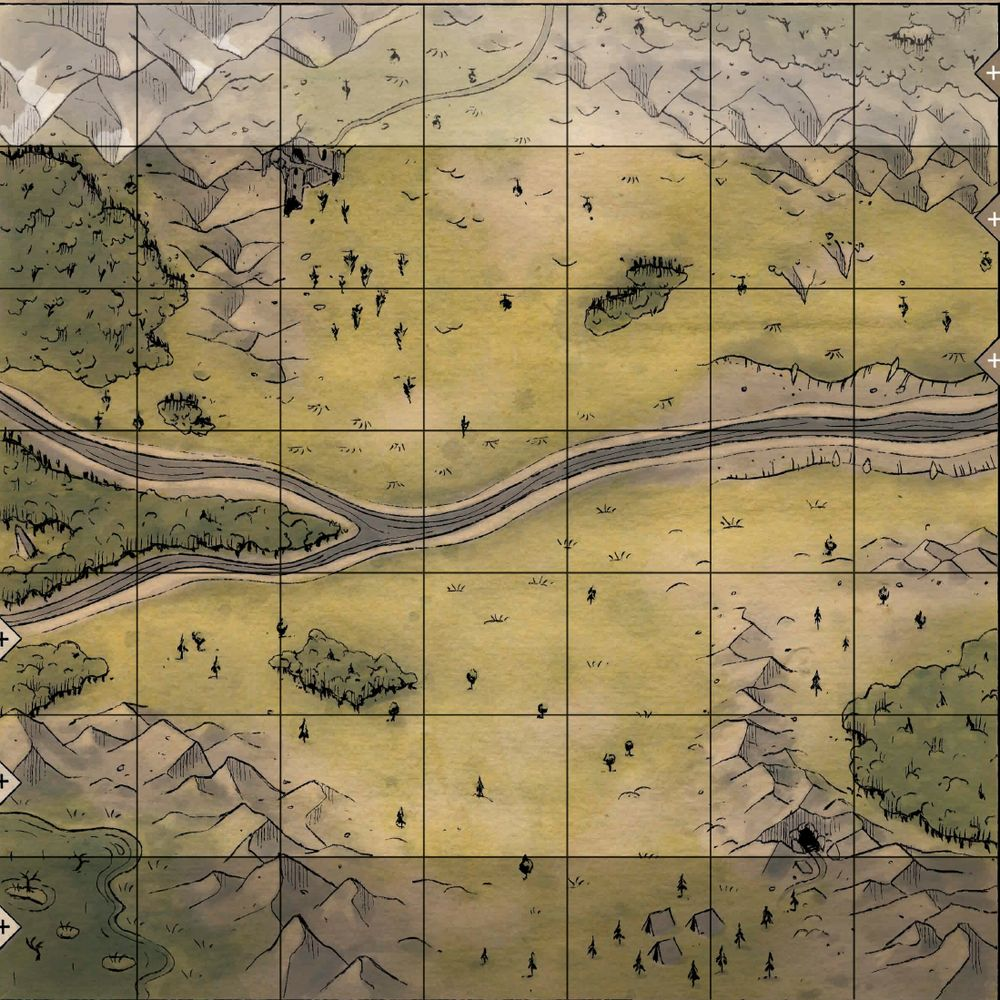
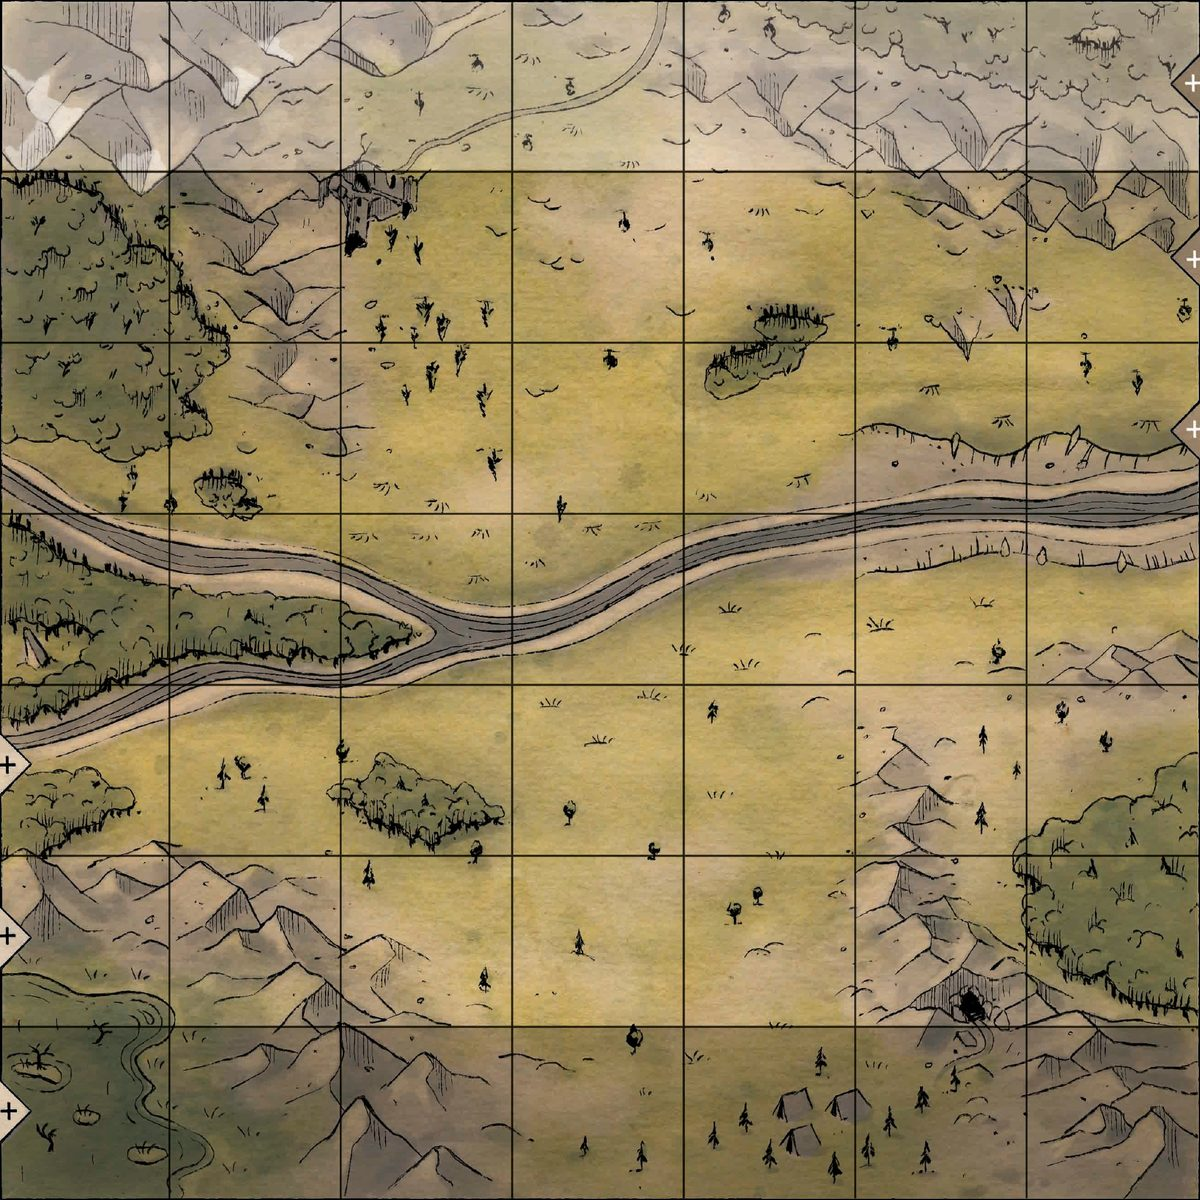
Ring: Move/Attack in the middle, Turn and a 3rd spell at the bottom; cleaner board crop
- Radial menu: the most used action (Move / Attack) sits in the middle, the
  bottom quarter holds KoS Turn or a third spell, the ring is capped in size
  on large screens.
- Board artwork cropped exactly along the outer grid lines; the +1/+2/+3 field
  bonus tags are drawn on the edge fields instead of being cut off.
- Large screens: the side column grows with the screen.

Claude-Session: https://claude.ai/code/session_01Fk5f7u6oEZYFAH5GYLATx9

diff --git a/ui/ring.js b/ui/ring.js
@@ -3,9 +3,9 @@
 //   Ring.show({
 //     square: { row, col },            // board field the ring belongs to
 //     items: { top: [], right: [], bottom: [], left: [] },
-//     dieImg: "img/RoX/3.png",          // shown in the middle (optional)
+//     dieImg: "img/RoX/3.png",          // shown in the middle when there is no center action
 //     dieRotation: 0,                   // degrees, for the image in the middle
-//     center: { label, onClick } | null, // tap on the middle (e.g. KoS "Turn")
+//     center: { label, onClick } | null, // action in the middle (Move / Attack)
 //     flip: false,                      // turn the ring by 180 degrees (player 2 in a duel)
 //     spellColor: "#00878c",
 //     onCancel: () => {},               // tap outside the ring
@@ -127,8 +127,9 @@
     layer.classList.add("open");
     Object.assign(backdrop.style, { left: `${br.left - ar.left}px`, top: `${br.top - ar.top}px`, width: `${br.width}px`, height: `${br.height}px` });
 
-    const R = Math.min(cell * 2.05, ar.width / 2 - 4, ar.height / 2 - 4);
-    const r = Math.max(R * 0.34, 24);
+    // Big enough for a thumb on a phone, but not huge on a large screen.
+    const R = Math.min(cell * 2.05, 170, ar.width / 2 - 4, ar.height / 2 - 4);
+    const r = Math.max(R * 0.37, 30);
     const pad = 4;
     let cx = cr.left - ar.left + cell / 2;
     let cy = cr.top - ar.top + cell / 2;
@@ -172,37 +173,29 @@
       });
     }
 
-    // Middle: the die itself (a tap there may turn it, KoS).
+    // Middle: the main action (Move / Attack), otherwise the die itself.
     const mid = el("g", { class: "seg" }, root);
+    if (o.center) {
+      el("circle", { cx: c, cy: c, r: r - 3, fill: COLORS.move, stroke: "#1e1a16", "stroke-width": 2 }, mid);
+      drawLabel(mid, c, c, { label: o.center.label, kind: "move" }, (r - 3) * 1.6, fontSize);
+      mid.setAttribute("tabindex", "0");
+      mid.setAttribute("role", "button");
+      mid.setAttribute("aria-label", o.center.label);
+      const fire = (e) => { e.stopPropagation(); o.center.onClick(); };
+      mid.addEventListener("click", fire);
+      mid.addEventListener("keydown", (e) => { if (e.key === "Enter" || e.key === " ") fire(e); });
+      return;
+    }
+    mid.style.pointerEvents = "none";
     el("circle", { cx: c, cy: c, r: r - 3, fill: "#e8dfca", stroke: "#1e1a16", "stroke-width": 2 }, mid);
     if (o.dieImg) {
       const s = (r - 3) * 1.25;
       const img = el("image", { href: o.dieImg, x: c - s / 2, y: c - s / 2, width: s, height: s, preserveAspectRatio: "xMidYMid meet" }, mid);
       const rot = (o.dieRotation || 0) + (o.flip ? 180 : 0);
       if (rot) img.setAttribute("transform", `rotate(${rot} ${c} ${c})`);
-      img.style.pointerEvents = "none";
     } else if (o.dieText) {
       const t = el("text", { x: c, y: c + r * 0.3, "text-anchor": "middle", "font-family": "Cinzel, Georgia, serif", "font-weight": 700, "font-size": r * 0.9, fill: "#2c241c" }, mid);
       t.textContent = o.dieText;
-    }
-    if (o.center) {
-      // circular arrow badge: "tap the die to turn it"
-      const br2 = r * 0.42;
-      const bx = c + (r - 3) * 0.62, by = c - (r - 3) * 0.62;
-      el("circle", { cx: bx, cy: by, r: br2, fill: "#56656f", stroke: "#1e1a16", "stroke-width": 1.5 }, mid);
-      el("path", {
-        d: `M${bx - br2 * 0.5} ${by + br2 * 0.15} A${br2 * 0.55} ${br2 * 0.55} 0 1 1 ${bx + br2 * 0.1} ${by + br2 * 0.55}`,
-        fill: "none", stroke: "#f4eedf", "stroke-width": 2, "stroke-linecap": "round",
-      }, mid);
-      el("path", { d: `M${bx - br2 * 0.75} ${by - br2 * 0.1} L${bx - br2 * 0.5} ${by + br2 * 0.35} L${bx - br2 * 0.1} ${by + br2 * 0.05}`, fill: "none", stroke: "#f4eedf", "stroke-width": 2, "stroke-linecap": "round", "stroke-linejoin": "round" }, mid);
-      mid.setAttribute("tabindex", "0");
-      mid.setAttribute("role", "button");
-      mid.setAttribute("aria-label", o.center.label || "Turn");
-      const fire = (e) => { e.stopPropagation(); o.center.onClick(); };
-      mid.addEventListener("click", fire);
-      mid.addEventListener("keydown", (e) => { if (e.key === "Enter" || e.key === " ") fire(e); });
-    } else {
-      mid.style.pointerEvents = "none";
     }
   }
 

diff --git a/index.html b/index.html
@@ -244,6 +244,26 @@
 
     .cell-label { display: none; }
 
+    .bonus-tag {
+      position: absolute; top: 50%; z-index: 1; pointer-events: none;
+      transform: translateY(-50%);
+      height: 34%; min-height: 17px; aspect-ratio: 1.1;
+      background: #2b2420;
+    }
+    .bonus-tag::after {
+      content: attr(data-v);
+      position: absolute; inset: 1.5px;
+      display: flex; align-items: center; justify-content: center;
+      background: #e8dcc0; color: #3b3127;
+      font-family: var(--display); font-weight: 700; font-size: clamp(10px, 3.4cqmin, 22px);
+      clip-path: inherit;
+    }
+    .bonus-tag.right { right: 0; clip-path: polygon(36% 0, 100% 0, 100% 100%, 36% 100%, 0 50%); }
+    .bonus-tag.right::after { padding-left: 22%; }
+    .bonus-tag.left { left: 0; clip-path: polygon(0 0, 64% 0, 100% 50%, 64% 100%, 0 100%); }
+    .bonus-tag.left::after { padding-right: 22%; }
+    #app.online-player2 .bonus-tag { rotate: 180deg; }
+
     .die {
       position: relative;
       z-index: 2;
@@ -351,6 +371,15 @@
     }
     @media (min-aspect-ratio: 5/4) and (min-width: 1100px) {
       #app { grid-template-columns: minmax(0, 1fr) 400px; max-width: 1400px; }
+    }
+    /* Large screens: the side column grows with the screen (same layout, scaled). */
+    @media (min-aspect-ratio: 5/4) and (min-width: 1250px) and (min-height: 720px) {
+      #app { grid-template-columns: minmax(0, 1fr) 540px; max-width: 1700px; }
+      .dock { zoom: 1.35; }
+    }
+    @media (min-aspect-ratio: 5/4) and (min-width: 1600px) and (min-height: 900px) {
+      #app { grid-template-columns: minmax(0, 1fr) 600px; max-width: 2000px; }
+      .dock { zoom: 1.5; }
     }
     @media (min-width: 700px) and (max-aspect-ratio: 5/4) {
       .hint-text { font-size: 18px; }
@@ -751,6 +780,16 @@
           cell.dataset.col = c;
           cell.style.gridRow = String(r + 1);
           cell.style.gridColumn = String(c + 1);
+
+          // Field bonus tags like on the printed board (+3/+2/+1 at the edges)
+          const bonus = r <= 2 && c === SIZE - 1 ? 3 - r : r >= 4 && c === 0 ? r - 3 : 0;
+          if (bonus) {
+            const tag = document.createElement("span");
+            tag.className = "bonus-tag " + (c === 0 ? "left" : "right");
+            tag.dataset.v = "+" + bonus;
+            tag.setAttribute("aria-hidden", "true");
+            cell.appendChild(tag);
+          }
 
           const label = document.createElement("div");
           label.className = "cell-label";

diff --git a/ui/rules-mode.js b/ui/rules-mode.js
@@ -534,6 +534,8 @@ function ringModel() {
       text: "Choose the new alignment, then the action." };
   }
 
+  // Top: upgrades. Middle: Move / Attack (used most). Left and right: spells,
+  // a third spell goes to the bottom. Bottom: KoS "Turn" (then 4 arrows).
   const items = { top: [], right: [], bottom: [], left: [] };
   const spells = [];
   for (const t of others) {
@@ -541,18 +543,19 @@ function ringModel() {
     const upgrade = a && (a.type === "upgrade" || UPGRADE_ABILITIES.has(a.ability));
     (upgrade ? items.top : spells).push({ label: t, kind: upgrade ? "upgrade" : "spell", onClick: () => choose(t) });
   }
-  const half = Math.ceil(spells.length / 2);
-  items.left = spells.slice(0, half);
-  items.right = spells.slice(half);
+  if (spells[0]) items.left = [spells[0]];
+  if (spells[1]) items.right = [spells[1]];
+  items.bottom = spells.slice(2);
+  if (turns.length) items.bottom.unshift({ label: "Turn", kind: "upgrade", onClick: () => { rm.turnMode = true; render(); } });
+  let center = null;
   if (nums.length) {
     const attacks = nums.filter((t) => rm.game.board[t] && rm.game.board[t].owner !== player).length;
     const label = attacks === nums.length ? "Attack" : attacks ? "Move / Attack" : "Move";
-    items.bottom = [{ label, kind: "move", onClick: () => { rm.ringDismissed = true; render(); } }];
+    center = { label, onClick: () => { rm.ringDismissed = true; render(); } };
   }
   return {
-    ...base, items, onCancel: cancel,
-    center: turns.length ? { label: "Turn", onClick: () => { rm.turnMode = true; render(); } } : null,
-    text: turns.length ? "Choose an action, or tap the die to turn it. Tap outside to cancel." : "Choose an action in the circle. Tap outside to cancel.",
+    ...base, items, center, onCancel: cancel,
+    text: "Choose an action in the circle. Tap outside to cancel.",
   };
 }
 

diff --git a/ui/hud.js b/ui/hud.js
@@ -231,10 +231,10 @@
           { label: "Level +", kind: "upgrade", onClick: () => rotateSelectedDie(1) },
         ],
         right: [{ label: "To Exile", kind: "spell", onClick: () => moveSelectedBoardDieToExile(owner) }],
-        bottom: [{ label: "Move", kind: "move", onClick: () => { state.ringDismissed = true; renderManual(); } }],
+        bottom: [{ label: "Turn 90°", kind: "upgrade", onClick: () => rotateSelectedDieVisual(90) }],
         left: [{ label: "To Reserve", kind: "spell", onClick: () => moveSelectedBoardDieToReserve(owner) }],
       },
-      center: { label: "Turn by 90°", onClick: () => rotateSelectedDieVisual(90) },
+      center: { label: "Move", onClick: () => { state.ringDismissed = true; renderManual(); } },
       onCancel: () => clearSelection(),
     });
   }

diff --git a/sw.js b/sw.js
@@ -1,4 +1,4 @@
-const CACHE_NAME = "dicewar-v22";
+const CACHE_NAME = "dicewar-v23";
 
 const PRECACHE_ASSETS = [
   "./",
